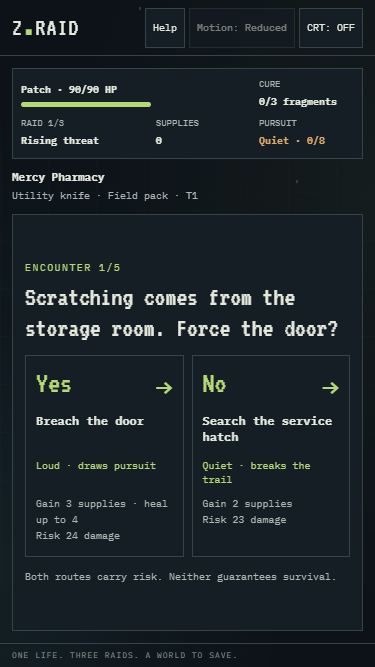
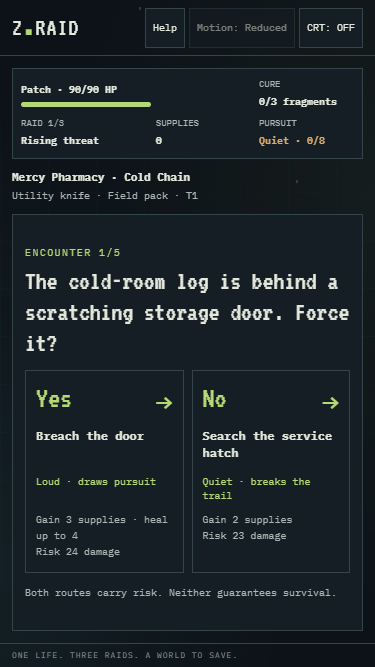
Add connected raid stories and contextual outcomes

diff --git a/stories.js b/stories.js
@@ -1,0 +1,233 @@
+/* Narrative content is separate from rules. Each route has an authored success
+   and failure; failures still lead onward if alive. No narration consumes RNG. */
+window.ZStories = (() => {
+  const C = window.ZContent;
+  // Beat: original encounter index, story question, Yes success/failure,
+  // No success/failure. Numeric effects remain those of the original encounter.
+  const arcs = {
+    pharmacy: [
+      {id:'cold-chain',name:'Cold Chain',mission:'Recover the research before the last freezer thaws.',ending:'The thawing vials and cold-room records yield a cure fragment at camp.',beats:[
+        [0,'The cold-room log is behind a scratching storage door. Force it?',
+          'The latch tears free; the cold-room log lies beside the fallen shelves.',
+          'The latch snaps back into your arm; through the gap, you spot the cold-room signs.',
+          'A loose service hatch leads behind the shelves to the cold-room log.',
+          'The hatch gives way under your grip; its jagged edge cuts you beside the cold-room signs.'],
+        [1,'Cold-room markings lead to a wired cabinet. Cut through it?',
+          'You separate the alarm lead from the cabinet lock and uncover a freezer key.',
+          'The wire springs taut, cutting your hand; the alarm exposes a route behind the cabinet.',
+          'You skirt the sensor and read the freezer number from the cabinet label.',
+          'A shelf shifts as you pass the sensor; infected hands catch you before the cold-room corridor.'],
+        [2,'An infected pharmacist stands at the marked cold room. Fight?',
+          'The pharmacist falls away from the door, leaving the cold room within reach.',
+          'The pharmacist catches your forearm; the impact knocks the cold-room door ajar.',
+          'The vent carries you over the pharmacist and into the cold-room stairwell.',
+          'A vent grille drops beneath you; you land hard on the cold-room stairs.'],
+        [3,'Spilled chemicals cover the stairs to the freezer. Cross them?',
+          'You follow the clean edges of the steps and reach the freezer landing.',
+          'A slick step sends you into the chemical spill; the landing is just beyond it.',
+          'You move along the railing above the spill and reach the freezer landing.',
+          'The railing bends under you, scraping your leg against the freezer landing.'],
+        [4,'The research freezer is still humming. Retrieve its contents?',
+          'You separate usable vials from broken stock and seal the research records for camp.',
+          'A cracked vial burns your hand; you preserve its label and records for camp instead.',
+          'You hold the corridor long enough to secure the records beside the freezer.',
+          'Infected burst through the corridor; you take a wound protecting the records for camp.']
+      ]},
+      {id:'last-dispatch',name:'Last Dispatch',mission:'Follow a missing medic’s last transmission.',ending:'The missing medic’s journal contains a formula fragment the camp can use.',beats:[
+        [5,'A missing medic’s ambulance holds the first clue. Break its window?',
+          'The glass gives way; a dispatch slip directs you to the pharmacy radio.',
+          'Glass bites into your wrist; through the broken pane, you read the radio call sign.',
+          'The rear latch opens onto a dispatch slip bearing the pharmacy radio call sign.',
+          'The latch traps your fingers; a dispatch slip visible inside still names the radio.'],
+        [8,'The pharmacy radio repeats the medic’s call sign. Tune it?',
+          'The receiver clears: the medic hid a journal above aisle seven.',
+          'The receiver sparks against your hand; a final burst still names aisle seven.',
+          'You clear the dead from the radio desk and hear the aisle-seven message.',
+          'The dead reach the desk first; their blows land as the aisle-seven message repeats.'],
+        [6,'A shadow follows you toward aisle seven. Set an ambush?',
+          'You catch the stalker between shelves and clear the way to the medic’s hiding place.',
+          'The stalker lunges before your trap is ready, driving you toward aisle seven.',
+          'You lose the stalker behind a row of shelving and reach aisle seven unseen.',
+          'The stalker hears a shelf rattle and strikes as you turn into aisle seven.'],
+        [7,'The medic’s journal is above a ceiling panel. Climb up?',
+          'You reach the panel and slide the journal into your coat before the ceiling shifts.',
+          'The ceiling drops onto your shoulder; the journal falls beside you in the debris.',
+          'You work through the collapsed shelves and pull the journal from the fallen panel.',
+          'A hidden shelf nail opens your palm as you pull the journal from the debris.'],
+        [9,'Journal secured, you find the exit shutter down. Lift it?',
+          'The shutter rises enough to carry the medic’s journal out into the street.',
+          'The shutter slams onto your shoulder; a gap beneath it is your last way out.',
+          'You slip through the loading bay with the medic’s journal held clear of the debris.',
+          'The loading-bay frame catches you, leaving a deep cut on the last stretch home.']
+      ]}
+    ],
+    metro: [
+      {id:'sealed-carriage',name:'Sealed Carriage',mission:'Find the research shipment trapped beneath the city.',ending:'The sealed shipment’s records become a cure fragment back at camp.',beats:[
+        [1,'A ticket-booth case lists a research carriage. Pry it open?',
+          'The lock breaks; the manifest names a carriage beyond the dark platform.',
+          'The lock springs into your knuckles; the cracked case still reveals the carriage number.',
+          'A maintenance locker holds a duplicate manifest and the platform power diagram.',
+          'The locker door falls against your arm; the diagram inside still marks the platform.'],
+        [2,'The shipment platform is dark. Restore its flickering lights?',
+          'The switchboard steadies, revealing a guard beside the tunnel gate.',
+          'The board discharges through your hand; its flash reveals the tunnel gate.',
+          'You trace the platform edge in darkness and reach the tunnel gate quietly.',
+          'Your next step finds a broken platform edge; the fall bruises you near the gate.'],
+        [3,'An infected guard holds the shipment tunnel key. Take it?',
+          'You pin the guard and take the key to the research carriage tunnel.',
+          'The guard bites through your sleeve; your struggle knocks the tunnel gate open.',
+          'The drainage pipe leads around the gate and into the carriage tunnel.',
+          'The pipe narrows around broken metal, cutting you before the carriage tunnel.'],
+        [0,'The research carriage is full of sleeping dead. Walk through?',
+          'You pass between still bodies and secure the shipment records at the far door.',
+          'A sleeper wakes beneath you and strikes as you pull the shipment records clear.',
+          'You clear the trackside dead and reach the shipment records through the side door.',
+          'The trackside horde closes around you as you drag the shipment records clear.'],
+        [4,'Records secured, a flooded passage leads out. Wade through?',
+          'You read the current and carry the shipment records across without soaking them.',
+          'Submerged debris catches your leg; you hold the shipment records above the water.',
+          'The signal gantry carries you above the flood and toward the station exit.',
+          'A gantry rung breaks, bruising your ribs as you protect the shipment records.']
+      ]},
+      {id:'signal-dark',name:'Signal in the Dark',mission:'Trace a courier’s cache through the abandoned rail line.',ending:'The courier’s cache holds a research copy that completes another cure fragment.',beats:[
+        [9,'A courier’s marked map lies in an infected nest. Retrieve it?',
+          'You lift the map from the nest; its mark points to a pack over the rails.',
+          'A body stirs beneath the map and claws you; its courier mark is still legible.',
+          'You reconstruct the courier route from wall signs pointing toward the rail bed.',
+          'A loose sign falls onto your arm; behind it, the rail-bed direction is exposed.'],
+        [6,'The courier’s pack hangs above the rail bed. Reach for it?',
+          'You lower yourself to the pack and find a note about a cache beneath the train.',
+          'The strap slips and you hit the rail bed; the note spills out beside you.',
+          'A second courier note in the rubble points to the underside of the train.',
+          'Broken ballast cuts your hand; beneath it, a courier note identifies the train.'],
+        [7,'The courier cache is under a moving shadow. Investigate?',
+          'You drive the infected out from under the train and take the sealed cache.',
+          'The infected catches your leg as you pull the courier cache from beneath the train.',
+          'You follow the sound along the carriage and reach the cache from the opposite side.',
+          'The sound echoes the wrong way; a hidden infected strikes as you pull the cache clear.'],
+        [5,'Cache secured, a trolley rolls down the exit track. Stop it?',
+          'You brace the trolley against a sleeper, clearing the route to the emergency gate.',
+          'The trolley crushes against your hip; it rolls past toward the emergency gate.',
+          'A service alcove shelters you as the trolley rattles toward the emergency gate.',
+          'Loose masonry falls into the alcove as the trolley passes, cutting your shoulder.'],
+        [8,'The courier’s escape gate is jammed. Force it?',
+          'The gate mechanism breaks, opening a route home with the courier cache.',
+          'The mechanism lashes back into your arm; the impact leaves a narrow way through.',
+          'You scale the station wall and lower the courier cache onto the street side.',
+          'The wall’s loose coping cuts your leg on the final climb toward the street.']
+      ]}
+    ],
+    checkpoint: [
+      {id:'vault-nine',name:'Vault Nine',mission:'Recover the quarantine lab’s sealed formula records.',ending:'The lab records yield a verified formula fragment once you reach camp.',beats:[
+        [3,'Vault Nine lies beyond a sweeping searchlight. Cut across?',
+          'You cross between sweeps and reach the drone-patrolled yard unseen.',
+          'The beam catches movement; an infected sentry strikes before you reach the yard.',
+          'You break the gate latch and enter the drone-patrolled yard directly.',
+          'The latch tears loose into your arm as you push into the drone-patrolled yard.'],
+        [0,'A drone scans the yard on the way to Vault Nine. Disable it?',
+          'The drone drops, giving you time to reach the lab supply crates.',
+          'The drone turns on you; a broken rotor cuts your shoulder beside the supply crates.',
+          'You move behind the barriers and reach the lab supply crates outside its scan.',
+          'A barrier shifts beneath your weight; the drone’s alarm brings infected to the crates.'],
+        [1,'A trapped supply crate holds the lab access tool. Open it?',
+          'You disarm the trigger and take an access tool for the lab entrance.',
+          'The trigger snaps into your wrist; the sprung lid exposes the lab entrance markings.',
+          'The truck holds a spare access tool, letting you approach the lab another way.',
+          'An infected trapped in the truck rakes your arm as you find the lab approach.'],
+        [2,'An armored infected blocks the Vault Nine entrance. Attack?',
+          'You strike between armor plates and reach the lab’s powered safe.',
+          'The armor turns your strike; a heavy blow drives you against the open lab door.',
+          'A maintenance entrance brings you behind the infected and into the safe room.',
+          'The service panel collapses into your shoulder beside the safe room entrance.'],
+        [9,'The formula safe still has backup power. Decode it?',
+          'The safe releases its records; you seal them for the journey back to camp.',
+          'The circuit burns your fingers; a printed backup beside the safe preserves the research.',
+          'You recover the field-research case, a portable copy of the safe’s records.',
+          'The case is pinned under debris; you take a wound freeing its research copy.']
+      ]},
+      {id:'last-officer',name:'The Last Officer',mission:'Follow the officer who hid the field laboratory records.',ending:'The officer’s field notes provide a formula fragment for the camp laboratory.',beats:[
+        [5,'An infected officer carries a marked case. Follow them?',
+          'You trail the officer to a bunker; the case markings match its generator label.',
+          'The officer turns and strikes; its torn case tag still identifies the bunker generator.',
+          'The command tent holds the officer’s log, with directions to the bunker generator.',
+          'A tent pole falls across your ribs; the scattered officer’s log still names the bunker.'],
+        [4,'The officer’s bunker generator leaks fuel. Repair it?',
+          'The fuel line holds, restoring light over the bunker hatch.',
+          'A hot fuel spurt burns your hand; its flare reveals the bunker hatch.',
+          'You push through the unlit approach and locate the bunker hatch by its steel frame.',
+          'An infected steps out of the dark and hits you against the bunker hatch.'],
+        [7,'The marked bunker hatch is frozen shut. Heat it?',
+          'The improvised heater loosens the hatch, exposing the officer’s field notes inside.',
+          'The heated latch burns your palm; you reach through the shifted hatch for the field notes.',
+          'From the tower you spot a rear opening and recover the officer’s field notes.',
+          'A tower brace breaks under you; you crawl through the rear opening for the field notes.'],
+        [8,'Notes secured, an infected lunges across your escape route. Stand firm?',
+          'You repel the lunge and reach the trenches beneath the broadcasting antenna.',
+          'The lunge drives a sharp claw into your arm before you reach the trenches.',
+          'You evade between the crates and reach the trenches without facing the lunge.',
+          'A crate corner catches your hip; the infected strikes as you turn toward the trenches.'],
+        [6,'The antenna draws a horde around the exit. Destroy it?',
+          'The antenna falls silent, opening a gap to carry the officer’s notes home.',
+          'The antenna crashes toward you; its impact wounds you but opens a gap in the horde.',
+          'You follow the trenches beneath the horde’s sightline with the officer’s notes.',
+          'The horde spills into a trench; you take a wound shielding the officer’s notes.']
+      ]}
+    ]
+  };
+  for (const location of C.locations) {
+    location.storylines = arcs[location.id].map(arc => ({
+      id: arc.id, name: arc.name, mission: arc.mission, ending: arc.ending,
+      encounters: arc.beats.map(row => {
+        const source = location.encounters[row[0]];
+        return {...source, question: row[1], yes: {...source.yes, story: {success:row[2],failure:row[3]}}, no: {...source.no, story: {success:row[4],failure:row[5]}}};
+      })
+    }));
+  }
+  // Strengths do not promise success; specialist failures cite an obstacle,
+  // rather than pretending the character lacks the skill they excel at.
+  const traits = {
+    rook: {
+      combat:['Rook’s soldier’s instincts find the opening before the dead can react.','Even Rook’s trained stance cannot absorb the sudden impact.'],
+      stealth:['Rook steadies his heavy frame and places each step with care.','Rook’s broad frame brushes debris, betraying his position.'],
+      scavenging:['Rook slows down and follows the markings instead of forcing the mechanism.','Rook’s force-first habits miss a small warning in the damaged fittings.']
+    },
+    echo: {
+      combat:['Echo uses speed and leverage to turn a brief opening into a way through.','Echo’s light frame gives ground when the obstacle pushes back.'],
+      stealth:['Echo’s courier footwork finds a quiet line through the danger.','Even Echo’s careful footing cannot avoid the loose surface shifting beneath it.'],
+      scavenging:['Echo notices a useful detail in the wreckage and works quickly.','Echo’s hurried hands overlook a damaged edge until it catches.']
+    },
+    patch: {
+      combat:['Patch keeps a measured distance and acts when the danger is exposed.','Patch’s medical training offers little leverage against the sudden force.'],
+      stealth:['Patch watches the gaps and moves only when the route is clear.','Patch hesitates at the wrong moment, leaving an opening for danger.'],
+      scavenging:['Patch’s practiced eye spots the damaged parts before touching them.','Even Patch’s trained eye misses damage concealed beneath the surface.']
+    }
+  };
+  const equipment = {
+    bat:{combat:['The nail bat’s weight gives the move extra force.','The nail bat catches against the obstacle before the move is complete.'],stealth:['You keep the nail bat close so its nails clear the debris.','The nail bat’s protruding nails snag loose debris.'],scavenging:['The bat stays tucked away while you work with your hands.','The long bat handle crowds your reach near the damaged fittings.']},
+    bow:{combat:['The bow’s reach helps you keep space around the move.','The bow is awkward when the danger crowds in close.'],stealth:['The quiet bow stays clear of the narrow route.','The bow limb brushes a hidden obstruction.'],scavenging:['The bow stays slung clear of your working hand.','The slung bow shifts as you reach into the wreckage.']},
+    pistol:{combat:['You keep the service pistol ready as you commit to the opening.','The service pistol offers little room to act at this angle.'],stealth:['You hold the pistol holster still while moving.','The pistol’s hard holster knocks against the surroundings.'],scavenging:['You secure the pistol before examining the fittings.','The pistol holster catches while you reach past the fittings.']},
+    knife:{combat:['The knife lets you work close to the opening.','The short knife leaves little reach against this danger.'],stealth:['The small knife stays clear of the tight route.','Even the compact knife cannot stop loose debris betraying you.'],scavenging:['The utility knife helps expose the hidden fittings.','The knife slips against a damaged fitting.']},
+    vest:{combat:['The armor vest steadies you against the obstacle.','The armor vest takes part of the impact, but cannot stop it all.'],stealth:['You control the stiff vest while moving carefully.','The stiff armor vest restricts your movement in the tight route.'],scavenging:['The vest protects you while examining the wreckage.','The rigid vest limits your reach into the wreckage.']},
+    boots:{combat:['The soft boots help you keep your footing.','The boots lose purchase on the damaged surface.'],stealth:['The soft boots muffle each careful step.','A shifting surface gives you away despite the soft boots.'],scavenging:['The soft boots keep your footing steady while searching.','A loose surface shifts beneath the soft boots as you reach.']},
+    kit:{combat:['The medical kit stays secured while you act.','The medical kit cannot prevent the sudden impact.'],stealth:['You hold the medical kit tight so its tools do not rattle.','A tool rattles inside the medical kit as you move.'],scavenging:['The medical kit’s tools help you examine the damaged parts.','A hidden edge catches before the medical tools can expose it.']},
+    pack:{combat:['You shift the field pack out of the way before acting.','The field pack’s weight pulls you off balance.'],stealth:['You tighten the field pack’s straps to stop them dragging.','A field pack strap catches against the surroundings.'],scavenging:['The field pack keeps your salvage tools within reach.','The field pack snags while you reach for the hidden fittings.']}
+  };
+  function describe(s, choice, result, before) {
+    const outcome = result.success ? 0 : 1;
+    const candidates = [C.weapons.find(x=>x.id===s.weapon),C.gear.find(x=>x.id===s.gear)];
+    // Cite equipment with a real relevant bonus/drawback first, not an unrelated
+    // gunshot or a supposed deficiency contradicted by the selected loadout.
+    const point = item => (item.bonuses[choice.stat]||0)+(item.specialty===choice.stat?s.tier:0);
+    candidates.sort((a,b)=>result.success?point(b)-point(a):point(a)-point(b));
+    const item = candidates[0];
+    const pressure = before.pressure>=5 ? 'The horde at your back leaves little time to recover.' : before.pressure>=2 ? 'Nearby infected were already following the disturbance.' : 'The approach began quietly.';
+    const shift = result.noiseChange>0?'The disturbance pulls the horde closer.':result.noiseChange<0?'You leave part of the pursuing horde behind.':'Pursuit stays steady.';
+    return {
+      scene: choice.story[result.success?'success':'failure'],
+      reason: traits[s.character][choice.stat][outcome],
+      context: `${equipment[item.id][choice.stat][outcome]} ${pressure} ${s.hp===0?'The wound is fatal; the research never reaches camp.':shift}`,
+      fatal: s.hp===0
+    };
+  }
+  return {describe};
+})();

diff --git a/game.js b/game.js
@@ -34,18 +34,19 @@
     const content=ui.step===3?review:selector(C[type==='location'?'locations':type==='weapon'?'weapons':'gear'],type,state[type]);
     return `<section class="screen prep-screen">${hud()}${nav}${heading(`PREPARE / RAID ${state.completed+1}`,titles[ui.step],subtitles[ui.step])}${content}<div class="screen-actions">${ui.step?btn('← Back','prep-back','secondary'):'<span class="action-note">Your survivor stays with you.</span>'}${ui.step===3?btn('Begin raid →','raid'):btn(`Next: ${stages[ui.step+1]} →`,'prep-next')}</div></section>`;
   }
+  function narration(x){return `<div class="story-tabs" role="group" aria-label="Result details"><button data-story="0" aria-pressed="${!ui.storyPage}">What happened</button><button data-story="1" aria-pressed="${!!ui.storyPage}">Gear & pursuit</button></div><div class="story-copy"><p>${ui.storyPage?x.narrative.context:x.narrative.scene}</p>${ui.storyPage?'':`<p>${x.narrative.reason}</p>`}</div>`;}
   function raid(){
     const s=state,l=R.item('locations',s.location),e=s.encounters[s.index],g=R.item('gear',s.gear);
-    const context=`<div class="raid-context"><b>${l.name}</b><span>${R.item('weapons',s.weapon).name} · ${g.name} · T${s.tier+1}</span></div>`;
+    const context=`<div class="raid-context"><b>${l.name} · ${s.storyline.name}</b><span>${R.item('weapons',s.weapon).name} · ${g.name} · T${s.tier+1}</span></div>`;
     let content;
-    if(s.phase==='raid')content=`${heading(`ENCOUNTER ${s.index+1}/5`,e.question)}<div class="decision-grid">${['yes','no'].map(answer=>{const x=e[answer],heal=x.heal+(g.healing||0)+(g.healing?s.tier:0);return `<button class="decision" data-action="${answer}"><strong>${label(answer)} <span>→</span></strong><b>${x.action}</b><span class="pursuit">${hint(x)}</span><small>Gain ${x.supplies+(g.supplies||0)} supplies${heal?` · heal up to ${heal}`:''}<br>Risk ${R.damage(s,x)} damage</small></button>`;}).join('')}</div><p class="odds-note">Both routes carry risk. Neither guarantees survival.</p>`;
-    else{const x=s.last;content=`<div class="outcome ${x.success?'good':'bad'}" role="status">${heading(`ENCOUNTER ${s.index+1}/5 · ${x.success?'✓ SUCCESS':'✕ FAILED'}`,x.action)}<p>${x.success?'You secure the route and recover supplies.':'You escape the dead, but the mistake costs you.'}</p><div class="outcome-reward">${x.damage?`−${x.damage} health`:`+${x.supplies} supplies · +${x.healing} health`}</div><p>${x.noiseChange>0?'The noise draws infected closer.':x.noiseChange<0?'You shake off part of the horde.':'The horde keeps its distance.'}</p></div><div class="screen-actions single">${btn(s.index===4?'Return to camp →':'Continue →','next')}</div>`;}
+    if(s.phase==='raid')content=`${heading(`ENCOUNTER ${s.index+1}/5`,e.question)}<div class="decision-grid">${['yes','no'].map(answer=>{const x=e[answer],heal=x.heal+(g.healing||0)+(g.healing?s.tier:0);return `<button class="decision" data-action="${answer}"><strong>${label(answer)} <span>→</span></strong><b>${x.action}</b><span class="pursuit">${hint(x)}</span><small>Gain ${x.supplies+(g.supplies||0)} supplies${heal?` · heal up to ${heal}`:''}<br>Risk ${R.damage(s,x)} damage</small></button>`;}).join('')}</div><p class="odds-note">${s.index===0?s.storyline.mission:'Both routes carry risk. Neither guarantees survival.'}</p>`;
+    else{const x=s.last;content=`<div class="outcome ${x.success?'good':'bad'}" role="status">${heading(`ENCOUNTER ${s.index+1}/5 · ${x.success?'✓ SUCCESS':'✕ FAILED'}`,x.action)}${narration(x)}<div class="outcome-reward">${x.damage?`−${x.damage} health`:`+${x.supplies} supplies · +${x.healing} health`}</div></div><div class="screen-actions single">${btn(s.index===4?'Return to camp →':'Continue →','next')}</div>`;}
     return `<section class="screen raid-screen">${hud()}${context}<div class="raid-body">${content}</div></section>`;
   }
   function ending(){const s=state;let icon,kicker,title,text,info,action;
-    if(s.phase==='summary'){icon='fragment';kicker='RAID COMPLETE';title='You made it back.';text='One more piece of the cure. Keep going.';info=`<b>${s.completed}/3 cure fragments recovered</b><p>Camp: +${s.recovery} HP · ${s.usedSupplies} supplies consumed.</p><p>Health ${s.hp}/${R.item('characters',s.character).health} · pursuit cleared.</p><p>Tier ${s.tier+1} unlocked for all equipment.<br>+1 specialty · improved vest armor & kit healing.</p><p class="detail-note">Next raid: tougher checks and +${s.completed*5} base damage.</p>`;action=btn('Prepare next raid →','prepare');}
-    else if(s.phase==='death'){icon='zombie';kicker='SIGNAL LOST';title='The dark won this time.';text=`${R.item('characters',s.deathProgress.character).name} fell on raid ${s.deathProgress.completed+1}, encounter ${s.deathProgress.encounter}.`;info=`<b>${s.deathProgress.completed}/3 fragments recovered</b><p>${s.last.action}: ${s.last.damage} damage.</p><p>Cure fragments, upgrades and progress are lost. A new survivor starts from zero.</p>`;action=btn('New run →','new');}
-    else{icon='victory';kicker='FORMULA COMPLETE';title='The world gets another day.';text=`${R.item('characters',s.character).name} survived all fifteen encounters.`;info=`<b>✓ Cure assembled</b><p>Three fragments. One cure. A future worth fighting for.</p><p>The first batch leaves camp at dawn.</p><p>Final health: ${s.hp} · all three raids completed.</p>`;action=btn('Play again →','new');}
+    if(s.phase==='summary'){icon='fragment';kicker='RAID COMPLETE';title='You made it back.';text=s.storyline.ending;info=`<b>${s.completed}/3 cure fragments recovered</b><p>Camp: +${s.recovery} HP · ${s.usedSupplies} supplies consumed.</p><p>Health ${s.hp}/${R.item('characters',s.character).health} · pursuit cleared.</p><p>Tier ${s.tier+1} unlocked for all equipment.<br>+1 specialty · improved vest armor & kit healing.</p><p class="detail-note">Next raid: tougher checks and +${s.completed*5} base damage.</p>`;action=btn('Prepare next raid →','prepare');}
+    else if(s.phase==='death'){icon='zombie';kicker='SIGNAL LOST';title='The dark won this time.';text=`${R.item('characters',s.deathProgress.character).name} fell on raid ${s.deathProgress.completed+1}, encounter ${s.deathProgress.encounter}.`;info=`<b>${s.deathProgress.completed}/3 fragments recovered</b>${narration(s.last)}<p>${s.last.damage} damage · Fragments and upgrades lost.</p>`;action=btn('New run →','new');}
+    else{icon='victory';kicker='FORMULA COMPLETE';title='The world gets another day.';text=`${R.item('characters',s.character).name} survived all fifteen encounters.`;info=`<b>✓ Cure assembled</b><p>${s.storyline.ending}</p><p>The first batch leaves camp at dawn.</p><p>Final health: ${s.hp} · all three raids completed.</p>`;action=btn('Play again →','new');}
     return `<section class="screen result">${art(icon,'result-art')}${heading(kicker,title,text)}${s.phase!=='death'?fragments():''}<div class="result-panel">${info}</div><div class="screen-actions single">${action}</div></section>`;
   }
   function render(){
@@ -60,9 +61,10 @@
   // Debounce transitions; the rules also guard duplicate resolutions and rewards.
   let lastActionTime=0;
   app.addEventListener('click',event=>{const b=event.target.closest('button');if(!b)return;const now=performance.now();if(now-lastActionTime<280)return;lastActionTime=now;
-    if(b.dataset.choice){if(b.dataset.choice==='character'&&state.phase==='characters')ui.character=b.dataset.id;else if(state.phase==='prepare')state[b.dataset.choice]=b.dataset.id;}
+    if(b.dataset.story!==undefined&&['outcome','death'].includes(state.phase))ui.storyPage=Number(b.dataset.story);
+    else if(b.dataset.choice){if(b.dataset.choice==='character'&&state.phase==='characters')ui.character=b.dataset.id;else if(state.phase==='prepare')state[b.dataset.choice]=b.dataset.id;}
     else if(b.dataset.step!==undefined&&state.phase==='prepare')ui.step=Number(b.dataset.step);
-    else{const a=b.dataset.action;if(a==='help'){showHelp();return;}if(a==='new'){state=R.fresh();state.phase='characters';ui={character:'rook',step:0};}else if(a==='choose-character')R.selectCharacter(state,ui.character);else if(a==='prep-next'&&state.phase==='prepare')ui.step=Math.min(3,ui.step+1);else if(a==='prep-back'&&state.phase==='prepare')ui.step=Math.max(0,ui.step-1);else if(a==='raid'&&ui.step===3)R.startRaid(state);else if(['yes','no'].includes(a))R.resolve(state,a);else if(a==='next')R.next(state);else if(a==='prepare'&&state.phase==='summary'){state.phase='prepare';ui.step=0;}}
+    else{const a=b.dataset.action;if(a==='help'){showHelp();return;}if(a==='new'){state=R.fresh();state.phase='characters';ui={character:'rook',step:0};}else if(a==='choose-character')R.selectCharacter(state,ui.character);else if(a==='prep-next'&&state.phase==='prepare')ui.step=Math.min(3,ui.step+1);else if(a==='prep-back'&&state.phase==='prepare')ui.step=Math.max(0,ui.step-1);else if(a==='raid'&&ui.step===3)R.startRaid(state);else if(['yes','no'].includes(a)){ui.storyPage=0;R.resolve(state,a);}else if(a==='next')R.next(state);else if(a==='prepare'&&state.phase==='summary'){state.phase='prepare';ui.step=0;}}
     render();
   });
   const dialog=document.querySelector('#instructions');let manualPage=0;

diff --git a/engine.js b/engine.js
@@ -2,7 +2,7 @@
 window.ZRules = (() => {
   const C = window.ZContent;
   const item = (type,id) => C[type].find(x=>x.id===id);
-  const fresh = () => ({character:null,location:'pharmacy',weapon:'bat',gear:'vest',hp:0,completed:0,tier:0,supplies:0,pressure:0,encounters:[],index:0,phase:'title',last:null});
+  const fresh = () => ({character:null,location:'pharmacy',weapon:'bat',gear:'vest',hp:0,completed:0,tier:0,supplies:0,pressure:0,storyline:null,encounters:[],index:0,phase:'title',last:null});
   function bonuses(s,stat) { return ['weapons','gear'].reduce((sum,type)=> { const it=item(type,type==='weapons'?s.weapon:s.gear); return sum+(it.bonuses[stat]||0)+(it.specialty===stat?s.tier:0); },0); }
   // Four points per stat and five per equipment point; upgrades offset the
   // ten-point raid penalty. Existing pursuit costs two points per level.
@@ -11,7 +11,7 @@ window.ZRules = (() => {
   function damage(s,choice) {const g=item('gear',s.gear);return Math.max(1,choice.damage+s.completed*5+Math.floor(s.pressure/2)-(g.armor||0)-(g.armor?s.tier:0));}
   const recovery = s => 8+Math.min(6,s.supplies)*2;
   function selectCharacter(s,id) { if(s.phase!=='characters')return false; const c=item('characters',id);if(!c)return false;s.character=id;s.hp=c.health;s.phase='prepare';return true; }
-  function startRaid(s,rng=Math.random) {if(s.phase!=='prepare')return false;const pool=[...item('locations',s.location).encounters];for(let i=pool.length-1;i>0;i--){const j=Math.floor(rng()*(i+1));[pool[i],pool[j]]=[pool[j],pool[i]];}s.encounters=pool.slice(0,5);s.index=0;s.pressure=0;s.phase='raid';s.last=null;return true;}
+  function startRaid(s,rng=Math.random) {if(s.phase!=='prepare')return false;const stories=item('locations',s.location).storylines;s.storyline=stories[Math.min(stories.length-1,Math.floor(rng()*stories.length))];s.encounters=[...s.storyline.encounters];s.index=0;s.pressure=0;s.phase='raid';s.last=null;return true;}
   function resolve(s,answer,rng=Math.random) {
     if(s.phase!=='raid'||!['yes','no'].includes(answer))return null;
     const a=s.encounters[s.index][answer],odds=chance(s,a),roll=rng()*100,success=roll<odds,g=item('gear',s.gear),max=item('characters',s.character).health;
@@ -23,6 +23,7 @@ window.ZRules = (() => {
     // Quiet actions still help on a failure, but the mishap attracts one level.
     s.pressure=Math.max(0,Math.min(8,s.pressure+(a.noise||0)+(success?0:1)));
     s.last={success,odds,roll,damage:injury,healing,supplies,action:a.action,noiseChange:s.pressure-before};
+    s.last.narrative=window.ZStories.describe(s,a,s.last,{pressure:before});
     s.phase=s.hp===0?'death':'outcome';
     if(s.phase==='death'){s.deathProgress={completed:s.completed,encounter:s.index+1,character:s.character};s.completed=0;s.tier=0;s.supplies=0;s.pressure=0;}
     return s.last;

diff --git a/styles.css b/styles.css
@@ -1,4 +1,5 @@
 @import url('https://fonts.googleapis.com/css2?family=IBM+Plex+Mono:wght@400;500;600;700&family=VT323&display=swap');
+.story-tabs{display:flex;gap:6px;margin:12px 0}.story-tabs button{flex:1;font-size:11px;padding:4px 6px}.story-tabs [aria-pressed="true"]{border-color:var(--green);color:var(--green)}.story-copy{text-align:left}.story-copy p{font-size:13px;line-height:1.5}.outcome .outcome-reward{margin:12px 0 0}
 :root{color-scheme:dark;--bg:#0c1218;--panel:#151e25;--line:#35434b;--text:#e5e9dd;--muted:#abb7b4;--green:#b5d974;--red:#f18f7a}
 *{box-sizing:border-box}html{height:100%}body{margin:0;height:100vh;height:100dvh;min-height:540px;display:grid;grid-template-rows:auto minmax(0,1fr) auto;background:var(--bg);color:var(--text);font:14px/1.55 'IBM Plex Mono',Consolas,monospace;isolation:isolate;padding:env(safe-area-inset-top) env(safe-area-inset-right) env(safe-area-inset-bottom) env(safe-area-inset-left)}
 /* Dynamic viewport units follow mobile browser chrome. Below the supported

diff --git a/index.html b/index.html
@@ -8,5 +8,5 @@
 <main id="app" tabindex="-1" aria-label="Z-Raid game"></main>
 <footer><span>ONE LIFE. THREE RAIDS. A WORLD TO SAVE.</span><span class="footer-signal">TRANSMISSION ACTIVE <i>●</i></span></footer>
 <dialog id="instructions" aria-labelledby="manual-title"><div class="dialog-top"><span>OPERATIONS / Z-RAID</span><button id="close-help" class="small">Close ×</button></div><div id="manual-content" aria-live="polite"></div><nav class="manual-controls" aria-label="Field manual pages"><button id="manual-prev" class="secondary">← Back</button><span id="manual-count"></span><button id="manual-next" class="primary">Next →</button></nav></dialog>
-<script src="content.js"></script><script src="engine.js"></script><script src="art.js"></script><script src="game.js"></script>
+<script src="content.js"></script><script src="stories.js"></script><script src="engine.js"></script><script src="art.js"></script><script src="game.js"></script>
 </body></html>

diff --git a/DEVELOPMENT.md b/DEVELOPMENT.md
@@ -12,7 +12,7 @@ Use mouse, touch, or Tab and Enter/Space. Start Game → choose one of three sur
 
 - Combat handles fighting and force; stealth handles concealment and navigation; scavenging handles searching and repairs.
 - Internal check odds = base + character stat × 4 + equipment bonus × 5 + min(2, supplies) − location hazard − completed raids × 10 − pursuit × 2 − encounter index, clamped to 10–85%. A uniform random roll below those odds succeeds. Check odds and rolls are hidden from players.
-- Each location has 10 encounters. Fisher–Yates shuffle draws 5 without replacement per raid. Both responses use independent checks and rewards. No is never a guaranteed safe escape.
+- Each location has two ordered five-encounter stories, picked randomly at raid start. Together they preserve the original 10 encounter profiles. Both responses have their own checks, rewards and narration. No is never a guaranteed safe escape.
 - Every route has an authored pursuit consequence, from −2 to +4. This applies on success as well as failure; a failed check adds one extra pursuit. Pursuit stays between 0 and 8. Loud and quiet actions appear under both Yes and No, so neither answer is always the quiet route. Players see route hints, the pursuit tracker and the result. Later decisions inherit the consequences of earlier ones.
 - Failure costs the displayed damage: encounter base + 5 per completed raid + floor(pursuit / 2) − vest armor (including upgrades). Successful checks award supplies and sometimes healing. Medical kits add healing; field packs add supplies. All health changes are capped. Zero health causes immediate death.
 - Camp restores 8 + 2 × min(6, supplies) health (maximum 20), capped at character maximum, consumes all supplies and clears pursuit. Supplies add up to 2 percentage points of morale during the raid. Pursuit also starts at zero each raid.
@@ -22,14 +22,15 @@ Use mouse, touch, or Tab and Enter/Space. Start Game → choose one of three sur
 
 ## Static hosting / Cloudflare Pages
 
-Upload `index.html`, `styles.css`, `content.js`, `engine.js`, `art.js`, `game.js`, and `assets/` together. On Cloudflare Pages select framework **None**, leave build command empty, and set output directory to the repository root (`.`). No secrets, server functions or dependencies are needed. All file references are relative, so subdirectory hosting works too. Google Fonts is optional; built-in monospace fallbacks keep the game readable offline.
+Upload `index.html`, `styles.css`, `content.js`, `stories.js`, `engine.js`, `art.js`, `game.js`, and `assets/` together. On Cloudflare Pages select framework **None**, leave build command empty, and set output directory to the repository root (`.`). No secrets, server functions or dependencies are needed. All file references are relative, so subdirectory hosting works too. Google Fonts is optional; built-in monospace fallbacks keep the game readable offline.
 
 ## Project structure
 
 - `index.html`: semantic application shell and accessible field-manual dialog.
 - `styles.css`: responsive retro interface, typography and optional CRT scanlines.
 - `content.js`: three characters, three locations, eight equipment items and 30 encounters.
-- `engine.js`: centralized probability, health, upgrades, shuffled encounter selection and guarded state transitions.
+- `stories.js`: six connected raid stories and action, survivor, equipment and pursuit narration.
+- `engine.js`: centralized probability, health, upgrades, random storyline selection with ordered encounters and guarded state transitions.
 - `game.js`: viewport-aware screens, master/detail selection, four-step preparation, compact raid status, and six-page field manual.
 - `art.js`: original pixel SVG portraits, location scenes, weapons, gear, zombies, fragments and ending artwork.
 - `viewport-check.cjs`: browser QA for actual element bounds and panel overflow, all selections, manual pages, both outcomes, summaries and endings. Run with optional width argument (e.g. `375`) to limit to one viewport. `browser-check.cjs` runs this suite.
@@ -45,10 +46,19 @@ Upload `index.html`, `styles.css`, `content.js`, `engine.js`, `art.js`, `game.js
 
 The UI uses a three-row viewport shell (header, flexible game area, footer), `100dvh` to follow mobile browser chrome, width and height breakpoints, and safe-area padding. It changes layout rather than shrinking or hiding essential content: character/item selectors share one detail pane, preparation has four steps with revisable selections, raid choices sit side by side, and the field manual has six pages. The supported minimum is 375 × 667 CSS pixels. Smaller effective viewports or unusually large text may need scrolling; natural overflow preserves readable content rather than clipping it. Gameplay probabilities and balance are unchanged by this UI update.
 
-All 144 character/location/weapon/gear combinations passed rule checks, including probability bounds at different pursuit levels, unique draws, upgrades, fragments only on living raid completion, rising difficulty, immediate death, reset, third-raid victory, and duplicate-action guards. Targeted checks verify that successful loud actions increase pursuit and worsen later checks/damage, quiet actions reduce it, pressure is capped and resets, camp recovery caps at 20, and both answers include loud and quiet routes.
+All 144 character/location/weapon/gear combinations passed rule checks, including probability bounds at different pursuit levels, ordered story selection, upgrades, fragments only on living raid completion, rising difficulty, immediate death, reset, third-raid victory, and duplicate-action guards. Targeted checks verify that successful loud actions increase pursuit and worsen later checks/damage, quiet actions reduce it, pressure is capped and resets, camp recovery caps at 20, and both answers include loud and quiet routes.
 
 The previous balance won about 52% with all-Yes and 76% with informed choices. After pursuit, reduced recovery and tougher checks, a 115,200-run comparison produced average win rates of **8.3% all-Yes, 15.4% all-No, 10.6% random, and 31.8% informed**. Informed results ranged from 10–55% across loadouts; every loadout remained able to win. Fixed-answer strategies can still win through luck; adapting choices is substantially more effective. These are simulation estimates, not a substitute for player feedback.
 
 Headless Edge verified actual element bounds and panel overflow at 375 × 667, 390 × 844, 768 × 1024, 1366 × 768 and 1440 × 900. Checks cover every survivor, location, weapon and gear choice at all upgrade tiers, four preparation steps and revising selections, all six manual pages, raid decisions/results, summaries, death, restart and victory. No scrolling, clipping, hidden-check leakage or JavaScript errors were found. An extra SE run covers all 30 encounter texts and live resizing between phone and desktop. Motion controls, persistence, reduced motion and starting the game also passed. Preview screenshots are in `assets/preview-*.png`. The development browser scripts use this workstation's bundled Playwright; for another machine, replace the require path with an installed Playwright package. The game itself has no package dependency.
 
 No placeholder artwork. All catalog and ending icons are original SVG pixel drawings, and all art is bundled or inline. CRT is off by default and disabled under reduced motion. This first version has no audio, persistent save or multiplayer.
+
+
+## Raid narration
+
+Each location has two five-moment storylines, selected with equal probability at raid start. Moments stay ordered throughout the raid; returning to the same location can select either story again. All thirty original numerical encounter profiles are preserved across the six arcs. Each Yes/No route has its own success and failure passage (120 passages), followed by survivor-specific context. Gear & pursuit shows equipment and the pursuit present before the check, plus its change. This fiction explains the outcome without exposing odds or adding random rolls. Fatal outcomes retain their narration before run progress resets.
+
+Results use two compact views to preserve the 375 × 667 minimum. The story conclusion appears at camp. `story-check.cjs` checks all 5,760 character/loadout result combinations, unchanged numerical effects, selection order, RNG usage and fatal context. `story-browser-check.cjs` checks 2,186 scene, context, fatal and conclusion screens at SE and desktop sizes.
+
+A 230,400-run before/after comparison measured all-Yes 8.2% → 8.5%, all-No 15.0% → 15.7%, random 10.7% → 11.2%, and informed 31.4% → 32.8%. Ordered encounter grouping changes the encounter distribution, but probability, damage, rewards, pursuit and recovery formulas are unchanged. Adaptive choices remain substantially more effective than a fixed answer.

diff --git a/README.md b/README.md
@@ -19,7 +19,7 @@ An 8-bit, text-based survival game where every Yes or No could be your last.
 
 1. **Pick your survivor.** Rook brings combat, Echo brings stealth, and Patch brings scavenging. Your choice lasts the whole run.
 2. **Choose your raid.** Explore Mercy Pharmacy, Hollow Metro, or Checkpoint 09 with one weapon and one piece of gear.
-3. **Make the call.** Survive five randomized Yes/No encounters. Consider the actions, rewards, and damage—“No” isn't a free escape.
+3. **Make the call.** Survive five connected Yes/No encounters in a randomly selected story. Consider the actions, rewards, and damage—“No” isn't a free escape.
 4. **Bring home the cure.** Each completed raid earns a fragment, upgrades your equipment, and raises the danger. Recover all three fragments to win.
 
 **Four weapons. Four gear items. Thirty encounters. One life.**<br>
@@ -50,7 +50,7 @@ Built with **HTML, CSS, and vanilla JavaScript**. Static, browser-based, and fre
 | `art.js` | Original pixel SVG artwork |
 | `styles.css` | Responsive retro styling, menu motion, and optional CRT effect |
 
-Encounters are shuffled each raid; stat-based probability checks decide outcomes. Google Fonts are optional, with monospace fallbacks. Rule checks and balance simulations run with `node verify.cjs`.
+Each raid randomly selects one of two ordered stories for its location; stat-based probability checks decide outcomes. Google Fonts are optional, with monospace fallbacks. Rule checks and balance simulations run with `node verify.cjs`.
 
 Implementation details, rules, hosting instructions, and animation tooling are in [DEVELOPMENT.md](DEVELOPMENT.md).
 
@@ -75,3 +75,8 @@ Open **[http://localhost:8080](http://localhost:8080)**. Use `python3` or `py` i
 [Enter the ruins ↗](https://z-raid.thehawk6353.workers.dev/) · [Matthew Hawkins](https://github.com/Matthew-Hawk)
 
 </div>
+
+
+### Stories in the ruins
+
+Each raid zone now has two connected five-moment stories, picked randomly when you enter. Yes and No have distinct success and failure scenes, with context for your survivor, gear and pursuit. Use **What happened** and **Gear & pursuit** to read the result without scrolling. The difficulty rules remain unchanged.
